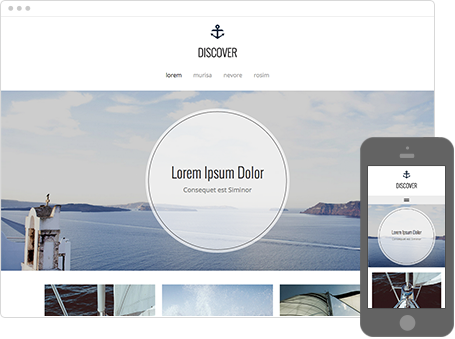
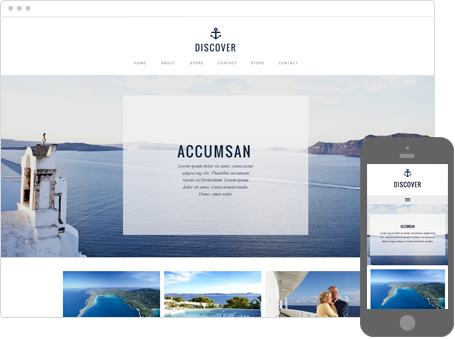
thumbnail added

diff --git a/less/widgets.less b/less/widgets.less
@@ -234,8 +234,8 @@ a.company-link:hover {
     }
     .background-image,
     .content-wrap {
-        min-height: 500px;
-        height: 500px;
+        min-height: 600px;
+        height: 600px;
     }
     .background-image {
         display: table;
@@ -248,14 +248,9 @@ a.company-link:hover {
         vertical-align: middle;
         display: table-cell;
         text-align: center;
-        background-color: rgba(0,0,0,0.1);
     }
     .content-inner-wrap {
         background-color: fade(@color-swatch1, 65%);
-        border: 8px solid fade(@color-swatch1, 10%);
-        -webkit-box-shadow: inset 0px 0px 0px 5px @color-swatch1;
-        -moz-box-shadow: inset 0px 0px 0px 5px @color-swatch1;
-        box-shadow: inset 0px 0px 0px 5px @color-swatch1;
         max-width: 600px;
         margin: 0 auto;
         padding: 100px;
@@ -309,8 +304,8 @@ a.company-link:hover {
     .feature {
         .background-image,
         .content-wrap {
-            min-height: 350px;
-            height: 350px;
+            min-height: 450px;
+            height: 450px;
         }
         .headline {
             font-size: bkscale(@font-swatch8-font-size, .8);
@@ -328,8 +323,8 @@ a.company-link:hover {
     .feature {
         .background-image,
         .content-wrap {
-            min-height: 250px;
-            height: 250px;
+            min-height: 300px;
+            height: 300px;
         }
         .content-wrap {
             padding: 15px;
